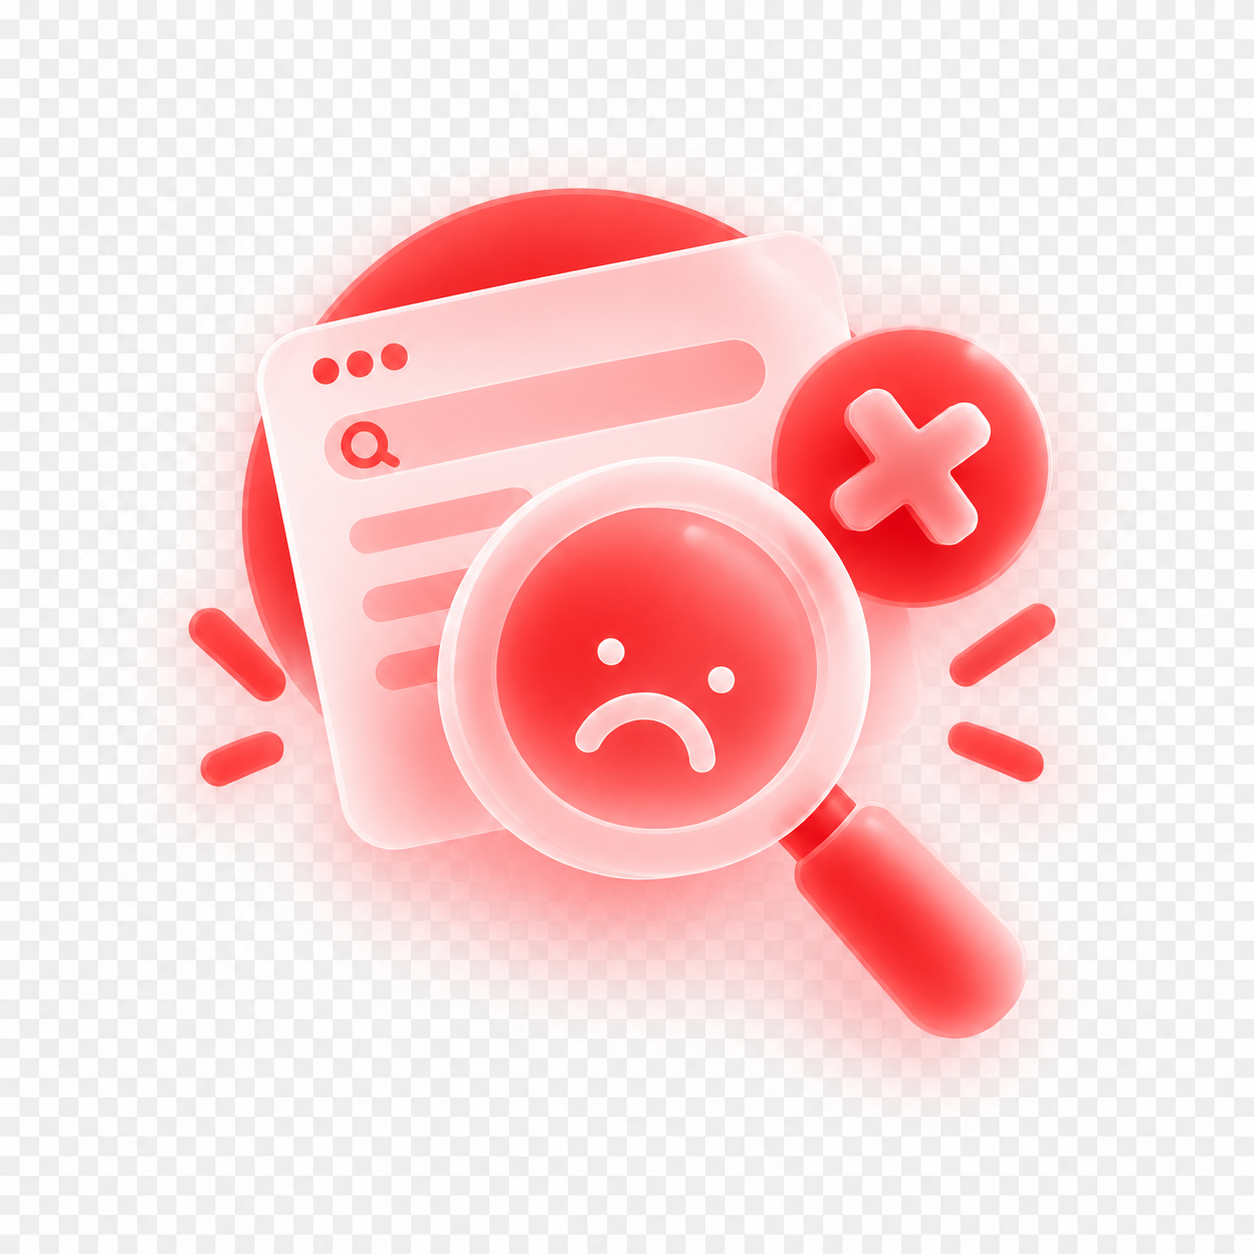
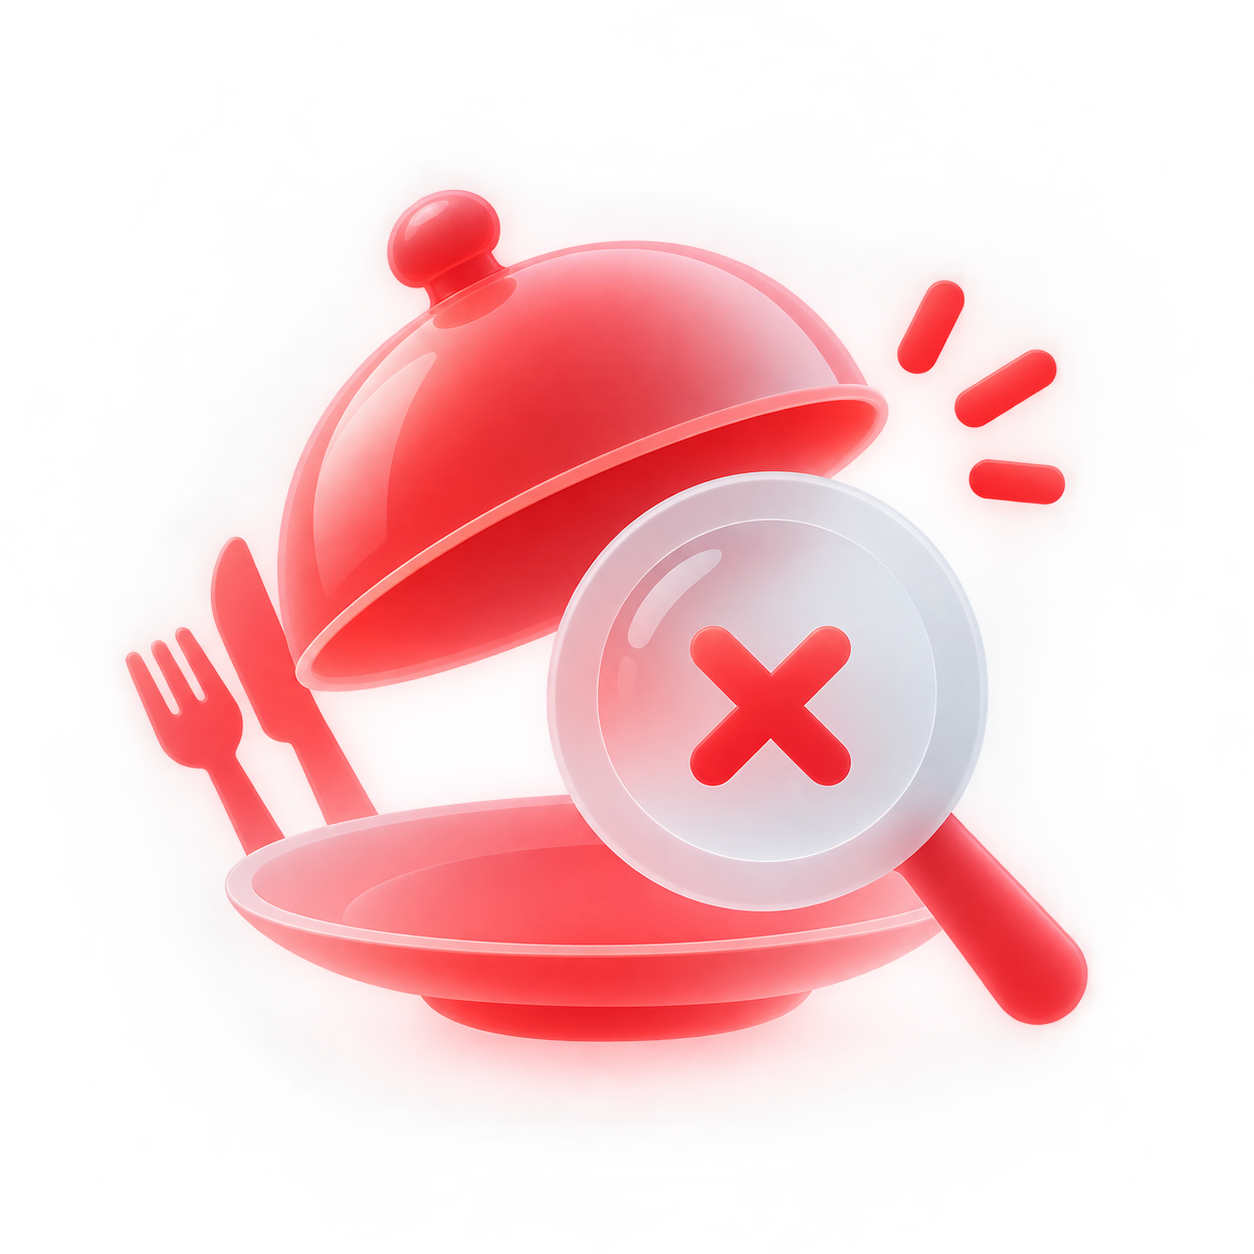
fix navbar

diff --git a/lib/main_wrapper.dart b/lib/main_wrapper.dart
@@ -1,3 +1,4 @@
+import 'dart:ui';
 import 'package:flutter/material.dart';
 import 'package:provider/provider.dart';
 import 'core/theme/app_colors.dart';
@@ -44,7 +45,7 @@ class MainWrapper extends StatelessWidget {
   }
 }
 
-// ── NavBar ──
+// ── NavBar (استایل شیشه مات) ──
 class _BottomNav extends StatelessWidget {
   const _BottomNav({required this.isDark});
   final bool isDark;
@@ -53,43 +54,56 @@ class _BottomNav extends StatelessWidget {
   Widget build(BuildContext context) {
     final selectedIndex = context.watch<NavigationProvider>().selectedIndex;
 
-    return Container(
-      decoration: BoxDecoration(
-        color: isDark ? AppColors.darkSurface : AppColors.lightSurface,
-        boxShadow: [
-          BoxShadow(
-            color: Colors.black.withValues(alpha: isDark ? 0.3 : 0.05),
-            blurRadius: 15,
-            offset: const Offset(0, -5),
+    return ClipRRect(
+      child: BackdropFilter(
+        filter: ImageFilter.blur(sigmaX: 15, sigmaY: 15),
+        child: Container(
+          decoration: BoxDecoration(
+            // رنگ پسزمینه نیمهشفاف برای افکت شیشه مات
+            color: isDark
+                ? Colors.black.withOpacity(0.6)
+                : Colors.white.withOpacity(0.7),
+            border: Border(
+              top: BorderSide(
+                color: isDark
+                    ? Colors.white.withOpacity(0.1)
+                    : Colors.black.withOpacity(0.05),
+                width: 1,
+              ),
+            ),
           ),
-        ],
-      ),
-      child: SafeArea(
-        child: Padding(
-          padding: const EdgeInsets.symmetric(
-              horizontal: 16.0, vertical: 12.0),
-          child: Row(
-            mainAxisAlignment: MainAxisAlignment.spaceBetween,
-            children: [
-              _NavItem(
-                  index: 0,
-                  icon: Icons.shopping_cart_rounded,
-                  label: 'سبد خرید',
-                  selectedIndex: selectedIndex,
-                  isDark: isDark),
-              _NavItem(
-                  index: 1,
-                  icon: Icons.home_rounded,
-                  label: 'خانه',
-                  selectedIndex: selectedIndex,
-                  isDark: isDark),
-              _NavItem(
-                  index: 2,
-                  icon: Icons.receipt_long_rounded,
-                  label: 'سفارشات',
-                  selectedIndex: selectedIndex,
-                  isDark: isDark),
-            ],
+          child: SafeArea(
+            child: Padding(
+              padding:
+                  const EdgeInsets.symmetric(horizontal: 16.0, vertical: 12.0),
+              child: Row(
+                mainAxisAlignment: MainAxisAlignment.spaceBetween,
+                children: [
+                  // در حالت RTL: سبد خرید راست، خانه وسط، سفارشات چپ
+                  _NavItem(
+                    index: 0,
+                    imagePath: 'assets/icons/shopping.png', // عکس سبد خرید
+                    label: 'سبد خرید',
+                    selectedIndex: selectedIndex,
+                    isDark: isDark,
+                  ),
+                  _NavItem(
+                    index: 1,
+                    imagePath: 'assets/icons/home.png', // عکس خانه
+                    label: 'خانه',
+                    selectedIndex: selectedIndex,
+                    isDark: isDark,
+                  ),
+                  _NavItem(
+                    index: 2,
+                    imagePath: 'assets/icons/receipt.png', // عکس سفارشات
+                    label: 'سفارشات',
+                    selectedIndex: selectedIndex,
+                    isDark: isDark,
+                  ),
+                ],
+              ),
+            ),
           ),
         ),
       ),
@@ -101,14 +115,14 @@ class _BottomNav extends StatelessWidget {
 class _NavItem extends StatelessWidget {
   const _NavItem({
     required this.index,
-    required this.icon,
+    required this.imagePath,
     required this.label,
     required this.selectedIndex,
     required this.isDark,
   });
 
   final int index;
-  final IconData icon;
+  final String imagePath;
   final String label;
   final int selectedIndex;
   final bool isDark;
@@ -117,7 +131,6 @@ class _NavItem extends StatelessWidget {
   Widget build(BuildContext context) {
     final isSelected = selectedIndex == index;
     // badge فقط برای سبد خرید (index 0)
-    // CartProvider از main.dart provide شده — همیشه در دسترسه
     final cartCount =
         index == 0 ? context.watch<CartProvider>().itemCount : 0;
 
@@ -126,27 +139,43 @@ class _NavItem extends StatelessWidget {
       child: AnimatedContainer(
         duration: const Duration(milliseconds: 350),
         curve: Curves.easeOutCubic,
-        padding:
-            const EdgeInsets.symmetric(horizontal: 16, vertical: 10),
+        padding: const EdgeInsets.symmetric(horizontal: 16, vertical: 10),
         decoration: BoxDecoration(
           color: isSelected ? AppColors.primary : Colors.transparent,
           borderRadius: BorderRadius.circular(20),
+          boxShadow: isSelected
+              ? [
+                  BoxShadow(
+                    color: AppColors.primary.withOpacity(0.4),
+                    blurRadius: 10,
+                    offset: const Offset(0, 4),
+                  ),
+                ]
+              : [],
         ),
         child: Row(
           mainAxisSize: MainAxisSize.min,
           children: [
-            // آیکون + badge
+            // عکس + badge
             Stack(
               clipBehavior: Clip.none,
               children: [
-                Icon(
-                  icon,
+                Image.asset(
+                  imagePath,
+                  width: 26,
+                  height: 26,
+                  // رنگآمیزی عکس: اگر فعال بود سفید، اگر غیرفعال بود خاکستری
                   color: isSelected
                       ? Colors.white
                       : (isDark
-                          ? AppColors.darkTextSecondary
-                          : AppColors.lightTextSecondary),
-                  size: 26,
+                          ? Colors.white54
+                          : Colors.black54),
+                  // در صورتی که عکس پیدا نشد، آیکون جایگزین نشان بده تا کرش نکنه
+                  errorBuilder: (context, error, stackTrace) => Icon(
+                    Icons.error_outline,
+                    color: isSelected ? Colors.white : Colors.grey,
+                    size: 26,
+                  ),
                 ),
                 if (cartCount > 0 && !isSelected)
                   Positioned(

diff --git a/lib/features/support/screens/support_screen.dart b/lib/features/support/screens/support_screen.dart
@@ -110,7 +110,7 @@ class _SupportScreenContentState extends State<_SupportScreenContent>
       context: context,
       isScrollControlled: true,
       backgroundColor: Colors.transparent,
-      
+
       barrierColor: Colors.black54,
       builder: (_) {
         bool isSubmitting = false;
@@ -397,7 +397,7 @@ class _TicketCard extends StatelessWidget {
                 child: Center(
                   // جای عکس پروفایل کاربر
                   child: Image.asset(
-                    'assets/images/user_avatar.png', 
+                    'assets/images/ticket.png', 
                     width: 32, height: 32,
                     errorBuilder: (context, error, stackTrace) => const Icon(Icons.person, color: AppColors.primary),
                   ),
@@ -737,7 +737,7 @@ class _ContactTab extends StatelessWidget {
                 // جای عکس بنر (آیکون جایگزین میشود تا کرش نکند)
                 Image.asset(
                   'assets/images/support_banner.png', 
-                  width: 40, height: 40,
+                  width: 60, height: 60,
                  
                   errorBuilder: (context, error, stackTrace) => const Icon(Icons.support_agent_rounded, color: Colors.white, size: 40),
                 ),
@@ -764,6 +764,7 @@ class _ContactTab extends StatelessWidget {
           const SizedBox(height: 20),
           _ContactCard(
             imagePath: 'assets/images/phone.png',
+            
             title: 'تلفن پشتیبانی',
             subtitle: '021 - 1234 - 5678',
             badge: 'شنبه تا پنجشنبه ۸ تا ۲۲',
@@ -947,8 +948,8 @@ class _ContactCard extends StatelessWidget {
                   // در صورت پیدا نشدن عکس، آیکون جایگزین میشود تا اپ کرش نکند
                   child: Image.asset(
                     imagePath, 
-                    width: 24, 
-                    height: 24,
+                    width: 50, 
+                    height: 50,
                     errorBuilder: (context, error, stackTrace) => const Icon(Icons.help_outline, size: 24, color: AppColors.primary),
                   ),
                 ),

diff --git a/lib/shared/widgets/custom_bottom_nav.dart b/lib/shared/widgets/custom_bottom_nav.dart
@@ -42,7 +42,7 @@ class CustomBottomNav extends StatelessWidget {
                   _buildNavItem(
                     context, 
                     index: 0, 
-                    imagePath: 'assets/icons/shopping.png', // عکس سبد خرید
+                    imagePath: 'assets/icons/iconshopping.png', // عکس سبد خرید
                     label: 'سبد خرید', 
                     isDark: isDark, 
                     selectedIndex: selectedIndex,
@@ -50,7 +50,7 @@ class CustomBottomNav extends StatelessWidget {
                   _buildNavItem(
                     context, 
                     index: 1, 
-                    imagePath: 'assets/icons/home.png', // عکس خانه
+                    imagePath: 'assets/icons/iconhome.png', // عکس خانه
                     label: 'خانه', 
                     isDark: isDark, 
                     selectedIndex: selectedIndex,
@@ -58,7 +58,7 @@ class CustomBottomNav extends StatelessWidget {
                   _buildNavItem(
                     context, 
                     index: 2, 
-                    imagePath: 'assets/icons/receipt.png', // عکس سفارشات
+                    imagePath: 'assets/icons/iconreceipt.png', // عکس سفارشات
                     label: 'سفارشات', 
                     isDark: isDark, 
                     selectedIndex: selectedIndex,

diff --git a/lib/features/cart_and_checkout/screens/cart_screen.dart b/lib/features/cart_and_checkout/screens/cart_screen.dart
@@ -139,7 +139,9 @@ class _EmptyCart extends StatelessWidget {
       child: Column(
         mainAxisSize: MainAxisSize.min,
         children: [
-          const Text('🛒', style: TextStyle(fontSize: 72)),
+          Image.asset(
+                  'assets/images/EmptyBasket.png', 
+                  width: 210, height: 210,),
           const SizedBox(height: 16),
           Text(
             'سبد خریدت خالیه!',

diff --git a/lib/features/cart_and_checkout/widgets/cart_item_card.dart b/lib/features/cart_and_checkout/widgets/cart_item_card.dart
@@ -236,11 +236,10 @@ class _QuantityRow extends StatelessWidget {
 
 class _QBtn extends StatelessWidget {
   const _QBtn({
-    this.color, // این خط اضافه شد تا ارور برطرف شود
     required this.icon,
     required this.onTap,
     required this.isDark,
-    this.isPrimary = false,
+    this.isPrimary = false, this.color,
   });
 
   final Color? color;
